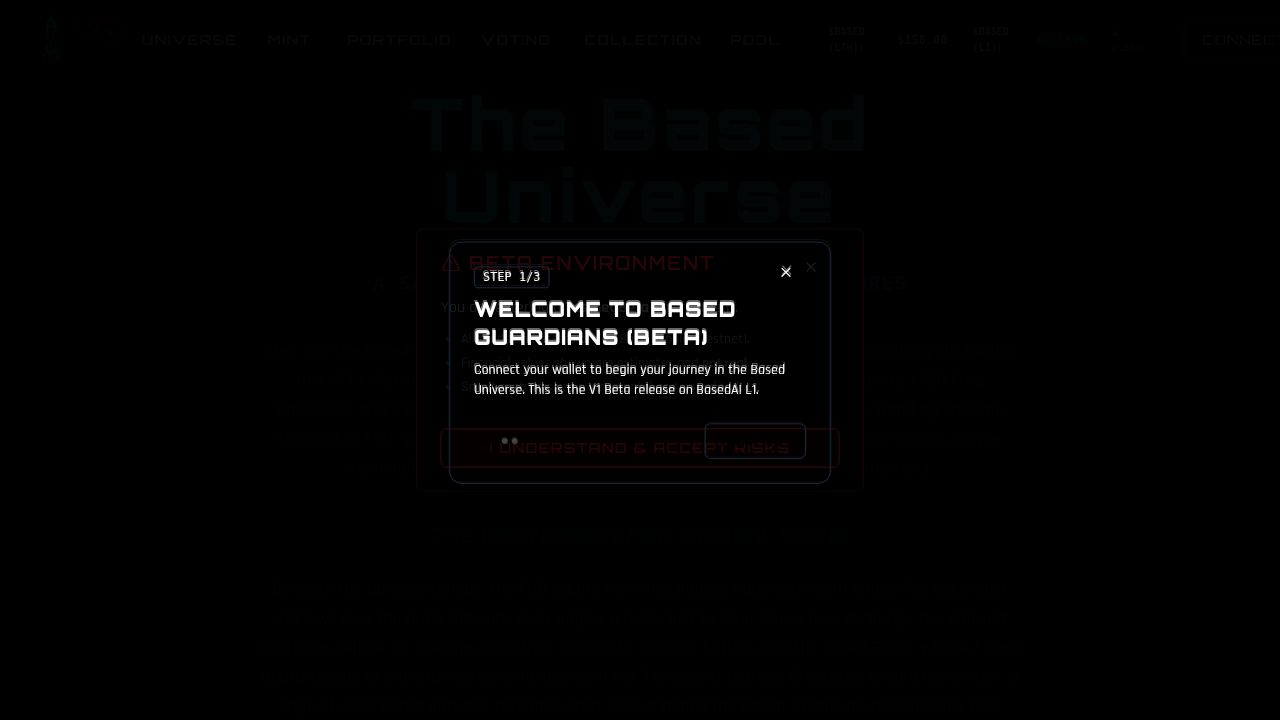
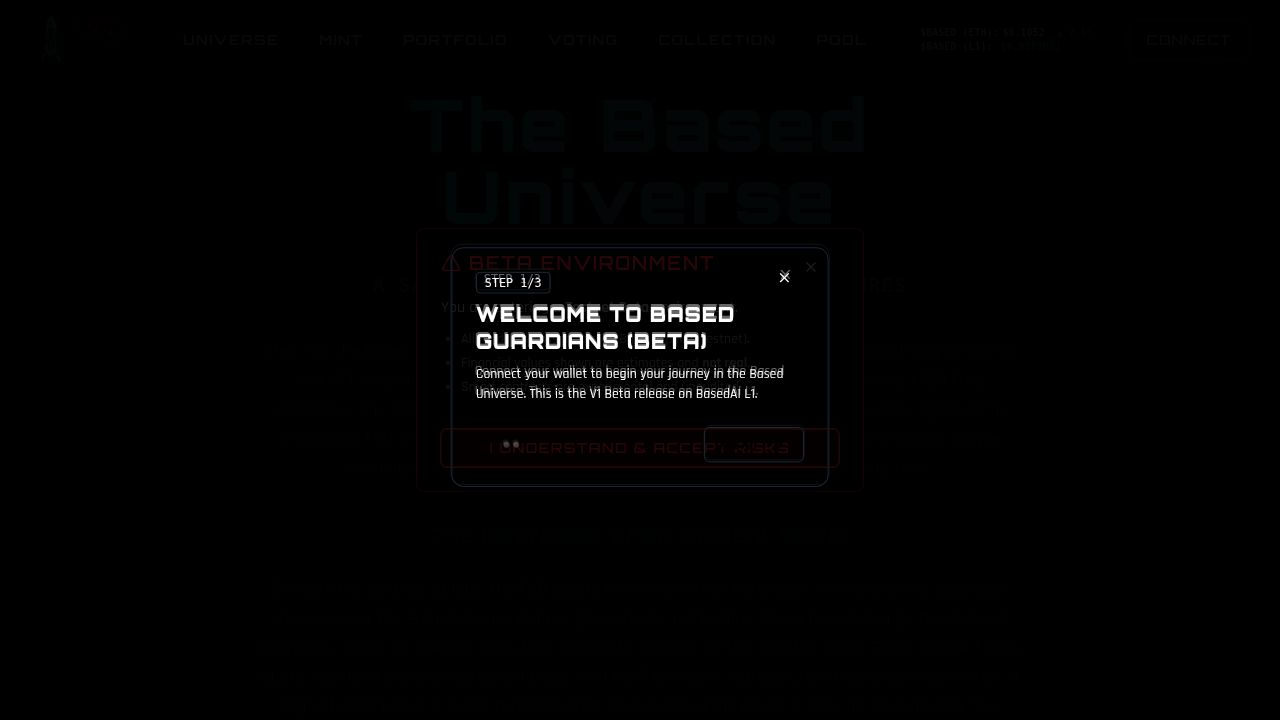
Ensure price feed remains visible on all screen sizes
Update CSS and navbar component to force price feed visibility on mobile and tablet devices by overriding display, visibility, and opacity properties.

Replit-Commit-Author: Agent
Replit-Commit-Session-Id: c1cfa060-9d68-4c49-99fa-7c4f93688bf4
Replit-Commit-Checkpoint-Type: full_checkpoint
Replit-Commit-Event-Id: a82765d8-7b51-42cb-8562-3f1ff6153694
Replit-Commit-Screenshot-Url: https://storage.googleapis.com/screenshot-production-us-central1/10a6e0fa-1f47-4886-8e88-feb45f81e56b/c1cfa060-9d68-4c49-99fa-7c4f93688bf4/xCd5vut
Replit-Helium-Checkpoint-Created: true

Changed region(s): [[0.3438, 0.3667, 0.625, 0.55], [0.5938, 0.3667, 0.625, 0.3972]]

diff --git a/client/src/index.css b/client/src/index.css
@@ -179,18 +179,26 @@
 }
 
 @media (max-width: 768px) {
-  .price-feed-container {
+  .price-feed-container, 
+  .price-feed, 
+  .price-container, 
+  [class*="price"] {
     display: flex !important;
     visibility: visible !important;
     opacity: 1 !important;
+    flex-wrap: wrap;
   }
 }
 
 @media (max-width: 480px) {
-  .price-feed-container {
+  .price-feed-container,
+  .price-feed, 
+  .price-container, 
+  [class*="price"] {
     display: flex !important;
     visibility: visible !important;
     opacity: 1 !important;
+    flex-wrap: wrap;
   }
 }
 

diff --git a/client/src/components/Navbar.tsx b/client/src/components/Navbar.tsx
@@ -164,7 +164,7 @@ export function Navbar({ activeTab, onTabChange, isConnected }: NavbarProps) {
               </button>
             ))}
             
-            <div className="flex items-center gap-2 ml-4 price-feed-container">
+            <div className="flex items-center gap-2 ml-4 price-feed-container flex-shrink-0">
                {/* Unified Price Feed - Visible on ALL screens */}
                <div 
                  id="priceBadge"
